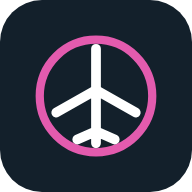
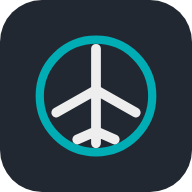
Switch to charcoal, slate and teal color scheme
Charcoal nav chrome in both themes, slate cards and teal accent in dark
mode, off-white with a darker teal in light mode. Also keep the desktop
sidebar and mock filter bar sticky (overflow-x: clip instead of hidden).

Claude-Session: https://claude.ai/code/session_01C9E9nGZcv9G9U12UCcEFa2

Changed region(s): [[0.1562, 0.1562, 0.8438, 0.8438]]

diff --git a/src/styles.css b/src/styles.css
@@ -1,7 +1,11 @@
 /* Palette borrows sectional-chart magenta + Class B blue, same as the roster artifact. */
+/* Palette: charcoal #222831, slate #393E46, teal #00ADB5, off-white #EEEEEE.
+   Nav chrome stays charcoal in both themes; light mode darkens the teal for readable text. */
 :root {
-  --bg: #f2f5f8; --surface: #fff; --ink: #13202b; --muted: #5a6b7a; --line: #d9e1e8;
-  --accent: #a8206f; --accent-soft: #f7e3ef; --blue: #1f4e8c; --blue-soft: #e2ebf6;
+  --bg: #eeeeee; --surface: #ffffff; --ink: #222831; --muted: #5d6570; --line: #d5d8dc;
+  --accent: #00838a; --accent-soft: #d9f1f2; --on-accent: #ffffff;
+  --blue: #393e46; --blue-soft: #e2e4e7;
+  --chrome: #222831; --chrome-ink: #eeeeee; --chrome-muted: #9aa3ad; --chrome-active: #00adb5; --chrome-active-bg: #393e46;
   --good: #1e7a4a; --good-soft: #dff1e6; --warn: #9a6200; --warn-soft: #fbeed3; --bad: #b42318; --bad-soft: #fbe3e0;
   --f-display: "Barlow Condensed", "Arial Narrow", system-ui, sans-serif;
   --f-body: "IBM Plex Sans", system-ui, -apple-system, "Segoe UI", sans-serif;
@@ -11,20 +15,24 @@
 }
 @media (prefers-color-scheme: dark) {
   :root:not([data-theme="light"]) {
-    --bg: #0e141a; --surface: #16202a; --ink: #e4eaf0; --muted: #93a3b2; --line: #26333f;
-    --accent: #e35bae; --accent-soft: #3a1830; --blue: #7ea8e8; --blue-soft: #1a2a40;
-    --good: #5cc98d; --good-soft: #123323; --warn: #e8b04b; --warn-soft: #3a2a0c; --bad: #f2786c; --bad-soft: #3e1714;
+    --bg: #222831; --surface: #393e46; --ink: #eeeeee; --muted: #a7afb8; --line: #4a5059;
+    --accent: #00adb5; --accent-soft: #1f4a50; --on-accent: #222831;
+    --blue: #8fd3d7; --blue-soft: #2c3e46;
+    --chrome: #1b2027; --chrome-ink: #eeeeee; --chrome-muted: #9aa3ad; --chrome-active: #00adb5; --chrome-active-bg: #393e46;
+    --good: #5cc98d; --good-soft: #1d3a2c; --warn: #e8b04b; --warn-soft: #463619; --bad: #f2786c; --bad-soft: #4a2522;
     color-scheme: dark;
   }
 }
 :root[data-theme="dark"] {
-  --bg: #0e141a; --surface: #16202a; --ink: #e4eaf0; --muted: #93a3b2; --line: #26333f;
-  --accent: #e35bae; --accent-soft: #3a1830; --blue: #7ea8e8; --blue-soft: #1a2a40;
-  --good: #5cc98d; --good-soft: #123323; --warn: #e8b04b; --warn-soft: #3a2a0c; --bad: #f2786c; --bad-soft: #3e1714;
+  --bg: #222831; --surface: #393e46; --ink: #eeeeee; --muted: #a7afb8; --line: #4a5059;
+  --accent: #00adb5; --accent-soft: #1f4a50; --on-accent: #222831;
+  --blue: #8fd3d7; --blue-soft: #2c3e46;
+  --chrome: #1b2027; --chrome-ink: #eeeeee; --chrome-muted: #9aa3ad; --chrome-active: #00adb5; --chrome-active-bg: #393e46;
+  --good: #5cc98d; --good-soft: #1d3a2c; --warn: #e8b04b; --warn-soft: #463619; --bad: #f2786c; --bad-soft: #4a2522;
   color-scheme: dark;
 }
 * { box-sizing: border-box; min-width: 0; }
-html, body { margin: 0; max-width: 100%; overflow-x: hidden; }
+html, body { margin: 0; max-width: 100%; overflow-x: clip; }
 body { background: var(--bg); color: var(--ink); font: 15px/1.45 var(--f-body); -webkit-tap-highlight-color: transparent; }
 button, input, select, textarea { font: inherit; color: inherit; }
 button { cursor: pointer; }
@@ -45,28 +53,29 @@ h3 { font-size: 18px; font-weight: 600; }
 .main { flex: 1; padding-bottom: calc(var(--nav-h) + env(safe-area-inset-bottom) + 24px); }
 .page { max-width: 980px; margin: 0 auto; padding: calc(16px + env(safe-area-inset-top)) max(16px, env(safe-area-inset-right)) 24px max(16px, env(safe-area-inset-left)); display: flex; flex-direction: column; gap: 18px; }
 .page-head { display: flex; align-items: flex-end; justify-content: space-between; gap: 12px; flex-wrap: wrap; }
-.tabbar { position: fixed; left: 0; right: 0; bottom: 0; z-index: 30; background: var(--surface); border-top: 1px solid var(--line); display: grid; grid-template-columns: repeat(5, 1fr); padding-bottom: env(safe-area-inset-bottom); }
-.tabbar a { display: flex; flex-direction: column; align-items: center; justify-content: center; gap: 2px; height: var(--nav-h); color: var(--muted); text-decoration: none; font-size: 11px; font-weight: 600; }
+.tabbar { position: fixed; left: 0; right: 0; bottom: 0; z-index: 30; background: var(--chrome); border-top: 1px solid var(--chrome); display: grid; grid-template-columns: repeat(5, 1fr); padding-bottom: env(safe-area-inset-bottom); }
+.tabbar a { display: flex; flex-direction: column; align-items: center; justify-content: center; gap: 2px; height: var(--nav-h); color: var(--chrome-muted); text-decoration: none; font-size: 11px; font-weight: 600; }
 .tabbar a svg { width: 22px; height: 22px; }
-.tabbar a.active { color: var(--accent); }
+.tabbar a.active { color: var(--chrome-active); }
 @media (min-width: 900px) {
   .tabbar { display: none; }
   .main { padding-bottom: 40px; }
-  .sidenav { display: flex; flex-direction: column; gap: 4px; width: 220px; flex: none; position: sticky; top: 0; height: 100vh; padding: 20px 12px; border-right: 1px solid var(--line); background: var(--surface); }
+  .sidenav { display: flex; flex-direction: column; gap: 4px; width: 220px; flex: none; position: sticky; top: 0; height: 100vh; padding: 20px 12px; border-right: 1px solid var(--chrome); background: var(--chrome); color: var(--chrome-ink); }
   .sidenav .brand { font-family: var(--f-display); font-size: 24px; font-weight: 700; padding: 4px 10px 16px; display: flex; gap: 8px; align-items: center; }
   .sidenav .brand img { width: 28px; height: 28px; }
-  .sidenav a { display: flex; gap: 10px; align-items: center; padding: 9px 10px; border-radius: 8px; color: var(--ink); text-decoration: none; font-weight: 500; }
-  .sidenav a svg { width: 20px; height: 20px; color: var(--muted); }
-  .sidenav a.active { background: var(--accent-soft); color: var(--accent); }
-  .sidenav a.active svg { color: var(--accent); }
+  .sidenav a { display: flex; gap: 10px; align-items: center; padding: 9px 10px; border-radius: 8px; color: var(--chrome-ink); text-decoration: none; font-weight: 500; }
+  .sidenav a svg { width: 20px; height: 20px; color: var(--chrome-muted); }
+  .sidenav a.active { background: var(--chrome-active-bg); color: var(--chrome-active); }
+  .sidenav a.active svg { color: var(--chrome-active); }
+  .sidenav .foot { color: var(--chrome-muted); }
   .sidenav .foot { margin-top: auto; padding: 10px; font-size: 12px; }
 }
 
 /* ---- controls ---- */
 .btn { border: 1px solid var(--line); background: var(--surface); color: var(--ink); border-radius: 8px; padding: 9px 14px; font-weight: 500; text-decoration: none; display: inline-flex; align-items: center; gap: 6px; justify-content: center; min-height: 40px; }
 .btn:hover { border-color: var(--muted); }
-.btn.primary { background: var(--accent); border-color: var(--accent); color: #fff; }
-.btn.blue { background: var(--blue); border-color: var(--blue); color: #fff; }
+.btn.primary { background: var(--accent); border-color: var(--accent); color: var(--on-accent); font-weight: 600; }
+.btn.blue { background: var(--blue); border-color: var(--blue); color: var(--bg); }
 .btn.danger { color: var(--bad); border-color: var(--bad); }
 .btn.sm { padding: 5px 10px; font-size: 13px; min-height: 32px; }
 .btn.ghost { border-color: transparent; background: none; color: var(--blue); }
@@ -75,7 +84,7 @@ h3 { font-size: 18px; font-weight: 600; }
 .spacer { flex: 1; }
 .chips { display: flex; gap: 6px; flex-wrap: wrap; }
 .chip { border: 1px solid var(--line); background: var(--surface); color: var(--muted); border-radius: 999px; padding: 5px 11px; font-size: 13px; font-weight: 500; }
-.chip[aria-pressed="true"] { background: var(--ink); color: var(--bg); border-color: var(--ink); }
+.chip[aria-pressed="true"] { background: var(--accent); color: var(--on-accent); border-color: var(--accent); }
 label.f { display: flex; flex-direction: column; gap: 4px; font-size: 12px; color: var(--muted); font-weight: 500; }
 input:not([type=checkbox]):not([type=radio]):not([type=file]), select, textarea { font-size: 16px; color: var(--ink); background: var(--bg); border: 1px solid var(--line); border-radius: 7px; padding: 8px 10px; width: 100%; }
 textarea { min-height: 76px; resize: vertical; }
@@ -122,7 +131,7 @@ table.week { border-collapse: collapse; width: 100%; min-width: 620px; font-size
 .avail .h { font-family: var(--f-mono); color: var(--muted); text-align: center; text-transform: uppercase; }
 .avail .l { font-family: var(--f-mono); color: var(--muted); align-self: center; }
 .slot { height: 32px; border: 1px solid var(--line); background: var(--bg); border-radius: 5px; }
-.slot[aria-pressed="true"] { background: var(--blue); border-color: var(--blue); }
+.slot[aria-pressed="true"] { background: var(--accent); border-color: var(--accent); }
 
 /* checklists */
 .checks { display: flex; flex-direction: column; }
@@ -160,14 +169,14 @@ details.fold > .fb { padding: 0 12px 10px; }
 @media (max-width: 560px) { .q { grid-template-columns: 1fr; } }
 .g { display: flex; gap: 4px; }
 .g button { width: 40px; height: 36px; border-radius: 7px; border: 1px solid var(--line); background: var(--surface); font-weight: 700; color: var(--muted); }
-.g button.S[aria-pressed="true"] { background: var(--good); border-color: var(--good); color: #fff; }
-.g button.W[aria-pressed="true"] { background: var(--warn); border-color: var(--warn); color: #fff; }
-.g button.U[aria-pressed="true"] { background: var(--bad); border-color: var(--bad); color: #fff; }
+.g button.S[aria-pressed="true"] { background: var(--good); border-color: var(--good); color: var(--surface); }
+.g button.W[aria-pressed="true"] { background: var(--warn); border-color: var(--warn); color: var(--surface); }
+.g button.U[aria-pressed="true"] { background: var(--bad); border-color: var(--bad); color: var(--surface); }
 .gp { display: inline-flex; align-items: center; justify-content: center; min-width: 22px; height: 20px; padding: 0 6px; border-radius: 5px; font-size: 12px; font-weight: 700; }
 .gp.S { background: var(--good-soft); color: var(--good); } .gp.W { background: var(--warn-soft); color: var(--warn); } .gp.U { background: var(--bad-soft); color: var(--bad); }
 .ex { font-size: 10.5px; font-weight: 700; padding: 1px 6px; border-radius: 4px; border: 1px solid var(--blue); color: var(--blue); margin-left: 6px; vertical-align: 1px; white-space: nowrap; }
 .ex.hot { border-color: var(--accent); color: var(--accent); }
-.linkbtn { background: none; border: 0; padding: 0; color: var(--blue); font-size: 12.5px; font-weight: 600; }
+.linkbtn { background: none; border: 0; padding: 0; color: var(--accent); font-size: 12.5px; font-weight: 600; }
 
 /* reg logger */
 .regchips { display: grid; grid-template-columns: repeat(auto-fill, minmax(min(100%, 250px), 1fr)); gap: 8px; }
@@ -182,7 +191,7 @@ details.fold > .fb { padding: 0 12px 10px; }
 .regtext.empty-t { color: var(--muted); }
 .seg { display: inline-flex; border: 1.5px solid var(--line); border-radius: 10px; overflow: hidden; }
 .seg button { border: 0; border-radius: 0; background: var(--surface); padding: 0 12px; font-weight: 600; font-size: 14px; min-height: 38px; }
-.seg button[aria-pressed="true"] { background: var(--blue); color: #fff; }
+.seg button[aria-pressed="true"] { background: var(--accent); color: var(--on-accent); }
 
 /* resources */
 .rgrid { display: grid; grid-template-columns: repeat(auto-fill, minmax(min(100%, 290px), 1fr)); gap: 10px; }

diff --git a/vite.config.ts b/vite.config.ts
@@ -14,8 +14,8 @@ export default defineConfig({
         name: "CFI Cockpit",
         short_name: "CFI",
         description: "Student roster, mock checkrides, logbook regs and resources for flight instructors.",
-        theme_color: "#13202B",
-        background_color: "#F2F5F8",
+        theme_color: "#222831",
+        background_color: "#EEEEEE",
         display: "standalone",
         start_url: ".",
         icons: [

diff --git a/index.html b/index.html
@@ -3,7 +3,7 @@
 <head>
 <meta charset="utf-8">
 <meta name="viewport" content="width=device-width,initial-scale=1,viewport-fit=cover">
-<meta name="theme-color" content="#13202B">
+<meta name="theme-color" content="#222831">
 <meta name="apple-mobile-web-app-capable" content="yes">
 <meta name="apple-mobile-web-app-status-bar-style" content="black-translucent">
 <link rel="icon" href="icon.svg" type="image/svg+xml">
